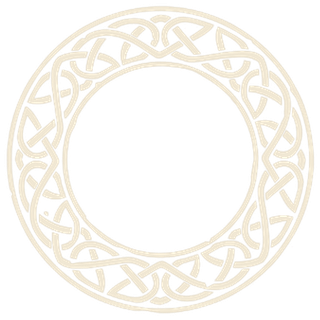
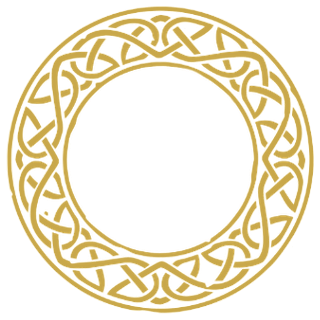
Brighten Celtic rings and add clinking beer mugs on Shows.

Changed region(s): [[0.0, 0.0, 1.0, 1.0]]

diff --git a/src/index.css b/src/index.css
@@ -877,6 +877,45 @@ select {
 }
 
 /* ——— Shows page ——— */
+.shows-page {
+  position: relative;
+  isolation: isolate;
+}
+
+.shows-cheers {
+  position: absolute;
+  top: 0.75rem;
+  left: clamp(0.5rem, 2vw, 1.5rem);
+  z-index: 2;
+  display: flex;
+  align-items: flex-end;
+  gap: 0.15rem;
+  width: clamp(7.5rem, 16vw, 10.5rem);
+  pointer-events: none;
+}
+
+.shows-cheers__mug {
+  width: 48%;
+  height: auto;
+  display: block;
+  filter: drop-shadow(0 6px 12px rgba(0, 0, 0, 0.35));
+  transform-origin: bottom center;
+}
+
+.shows-cheers__mug--left {
+  animation: mug-clink-left 2.8s ease-in-out infinite;
+}
+
+.shows-cheers__mug--right {
+  animation: mug-clink-right 2.8s ease-in-out infinite;
+}
+
+.shows-page > .page-hero,
+.shows-page > .section {
+  position: relative;
+  z-index: 1;
+}
+
 .shows-list {
   display: grid;
   gap: 0;
@@ -1464,6 +1503,38 @@ select {
   100% {
     box-shadow: 0 0 0 0 rgba(228, 199, 107, 0);
     transform: scale(1);
+  }
+}
+
+@keyframes mug-clink-left {
+  0%,
+  100% {
+    transform: rotate(-18deg) translateX(0);
+  }
+  40% {
+    transform: rotate(-4deg) translateX(6%);
+  }
+  48% {
+    transform: rotate(2deg) translateX(10%);
+  }
+  56% {
+    transform: rotate(-6deg) translateX(4%);
+  }
+}
+
+@keyframes mug-clink-right {
+  0%,
+  100% {
+    transform: rotate(18deg) translateX(0);
+  }
+  40% {
+    transform: rotate(4deg) translateX(-6%);
+  }
+  48% {
+    transform: rotate(-2deg) translateX(-10%);
+  }
+  56% {
+    transform: rotate(6deg) translateX(-4%);
   }
 }
 

diff --git a/src/pages/Shows.tsx b/src/pages/Shows.tsx
@@ -19,7 +19,24 @@ export function Shows() {
   const past = pastShows()
 
   return (
-    <>
+    <div className="shows-page">
+      <div className="shows-cheers" aria-hidden="true">
+        <img
+          src={`${import.meta.env.BASE_URL}beer-mug-left.png`}
+          alt=""
+          className="shows-cheers__mug shows-cheers__mug--left"
+          width={180}
+          height={220}
+        />
+        <img
+          src={`${import.meta.env.BASE_URL}beer-mug-right.png`}
+          alt=""
+          className="shows-cheers__mug shows-cheers__mug--right"
+          width={183}
+          height={220}
+        />
+      </div>
+
       <header className="page-hero">
         <p className="section-label">Tour</p>
         <h1 className="section-title">Upcoming Shows</h1>
@@ -80,6 +97,6 @@ export function Shows() {
           </div>
         </div>
       </section>
-    </>
+    </div>
   )
 }

diff --git a/src/pages/Home.tsx b/src/pages/Home.tsx
@@ -44,7 +44,7 @@ export function Home() {
           <div className="celtic-links" aria-label="Quick links">
             <Link to="/shows" className="celtic-link">
               <img
-                src={`${import.meta.env.BASE_URL}celtic-ring.png`}
+                src={`${import.meta.env.BASE_URL}celtic-ring-gold.png`}
                 alt=""
                 className="celtic-link__ring"
                 width={320}
@@ -58,7 +58,7 @@ export function Home() {
             </Link>
             <Link to="/epk" className="celtic-link">
               <img
-                src={`${import.meta.env.BASE_URL}celtic-ring.png`}
+                src={`${import.meta.env.BASE_URL}celtic-ring-gold.png`}
                 alt=""
                 className="celtic-link__ring"
                 width={320}
@@ -78,7 +78,7 @@ export function Home() {
               aria-label="Facebook"
             >
               <img
-                src={`${import.meta.env.BASE_URL}celtic-ring.png`}
+                src={`${import.meta.env.BASE_URL}celtic-ring-gold.png`}
                 alt=""
                 className="celtic-link__ring"
                 width={320}
@@ -94,7 +94,7 @@ export function Home() {
               aria-label="Instagram"
             >
               <img
-                src={`${import.meta.env.BASE_URL}celtic-ring.png`}
+                src={`${import.meta.env.BASE_URL}celtic-ring-gold.png`}
                 alt=""
                 className="celtic-link__ring"
                 width={320}
@@ -110,7 +110,7 @@ export function Home() {
               aria-label="YouTube"
             >
               <img
-                src={`${import.meta.env.BASE_URL}celtic-ring.png`}
+                src={`${import.meta.env.BASE_URL}celtic-ring-gold.png`}
                 alt=""
                 className="celtic-link__ring"
                 width={320}
@@ -126,7 +126,7 @@ export function Home() {
               aria-label="Spotify"
             >
               <img
-                src={`${import.meta.env.BASE_URL}celtic-ring.png`}
+                src={`${import.meta.env.BASE_URL}celtic-ring-gold.png`}
                 alt=""
                 className="celtic-link__ring"
                 width={320}

diff --git a/src/components/CelticButton.tsx b/src/components/CelticButton.tsx
@@ -17,7 +17,7 @@ function RingLabel({ children }: { children: ReactNode }) {
   return (
     <>
       <img
-        src={`${import.meta.env.BASE_URL}celtic-ring.png`}
+        src={`${import.meta.env.BASE_URL}celtic-ring-gold.png`}
         alt=""
         className="celtic-link__ring"
         width={320}